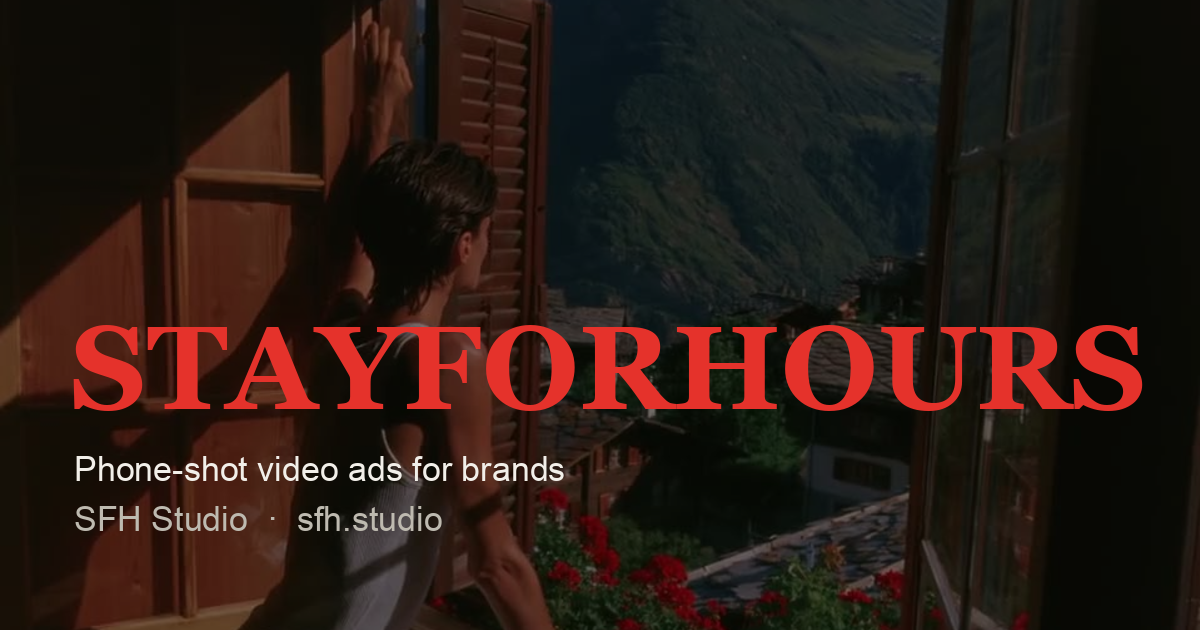
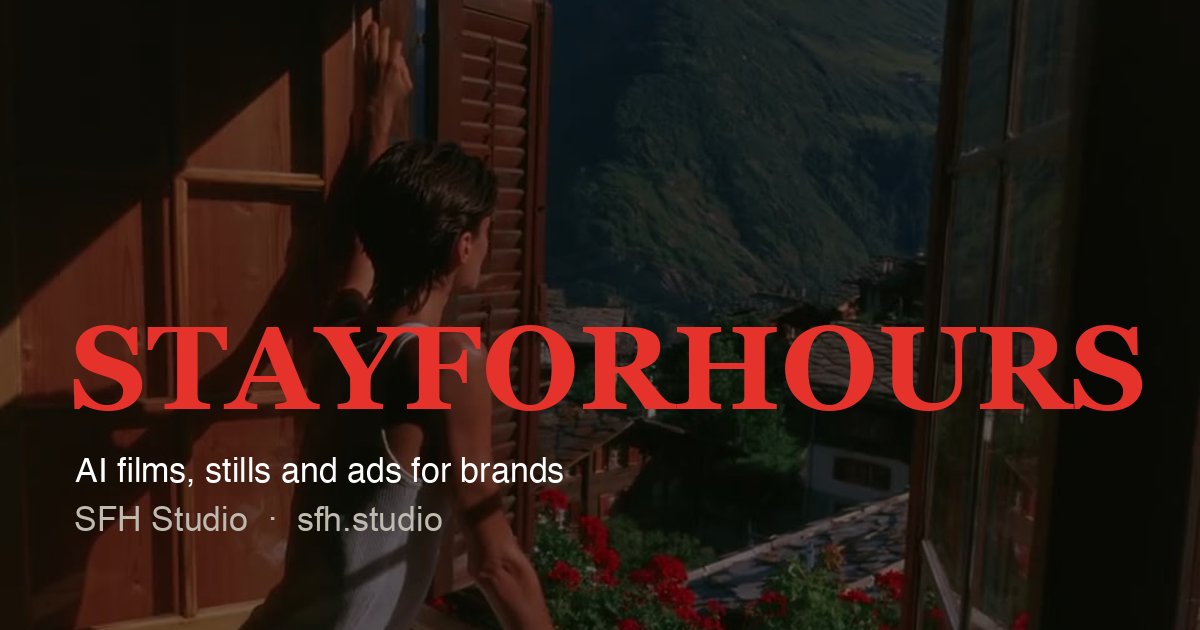
Link preview: 'AI films, stills and ads for brands'; cache-bust og image
Claude-Session: https://claude.ai/code/session_01Qh2s3i4LMB2ndHP6kgwMv4

Changed region(s): [[0.0617, 0.7238, 0.4625, 0.7841]]

diff --git a/index.html b/index.html
@@ -7,8 +7,8 @@
 <meta name="description" content="Visual storytelling for brands: films, stills and ads from SFH Studio.">
 <link rel="icon" href="favicon.svg" type="image/svg+xml">
 <meta property="og:type" content="website"><meta property="og:site_name" content="SFH Studio">
-<meta property="og:title" content="SFH Studio"><meta property="og:description" content="Phone-shot video ads, films and stills for brands from SFH Studio.">
-<meta property="og:url" content="https://sfh.studio/"><meta property="og:image" content="https://sfh.studio/og.png">
+<meta property="og:title" content="SFH Studio"><meta property="og:description" content="AI films, stills and ads for brands from SFH Studio.">
+<meta property="og:url" content="https://sfh.studio/"><meta property="og:image" content="https://sfh.studio/og.png?v=2">
 <meta name="twitter:card" content="summary_large_image">
 <link rel="stylesheet" href="style.css">
 <script>document.documentElement.classList.add("js")</script>

diff --git a/community.html b/community.html
@@ -8,7 +8,7 @@
 <link rel="icon" href="favicon.svg" type="image/svg+xml">
 <meta property="og:type" content="website"><meta property="og:site_name" content="SFH Studio">
 <meta property="og:title" content="Community · SFH Studio"><meta property="og:description" content="Join the SFH Studio community and earn commission when you refer brands and creators.">
-<meta property="og:url" content="https://sfh.studio/community.html"><meta property="og:image" content="https://sfh.studio/og.png">
+<meta property="og:url" content="https://sfh.studio/community.html"><meta property="og:image" content="https://sfh.studio/og.png?v=2">
 <meta name="twitter:card" content="summary_large_image">
 <link rel="stylesheet" href="style.css">
 <script>document.documentElement.classList.add("js")</script>

diff --git a/ads.html b/ads.html
@@ -8,7 +8,7 @@
 <link rel="icon" href="favicon.svg" type="image/svg+xml">
 <meta property="og:type" content="website"><meta property="og:site_name" content="SFH Studio">
 <meta property="og:title" content="Ads · SFH Studio"><meta property="og:description" content="AI video ad packages, daily-volume retainers, creative direction and DIY recipe packs from SFH Studio.">
-<meta property="og:url" content="https://sfh.studio/ads.html"><meta property="og:image" content="https://sfh.studio/og.png">
+<meta property="og:url" content="https://sfh.studio/ads.html"><meta property="og:image" content="https://sfh.studio/og.png?v=2">
 <meta name="twitter:card" content="summary_large_image">
 <link rel="stylesheet" href="style.css">
 <script>document.documentElement.classList.add("js")</script>

diff --git a/fashion.html b/fashion.html
@@ -8,7 +8,7 @@
 <link rel="icon" href="favicon.svg" type="image/svg+xml">
 <meta property="og:type" content="website"><meta property="og:site_name" content="SFH Studio">
 <meta property="og:title" content="Fashion · SFH Studio"><meta property="og:description" content="AI lookbooks, campaign films and on-model ads for fashion brands.">
-<meta property="og:url" content="https://sfh.studio/fashion.html"><meta property="og:image" content="https://sfh.studio/og.png">
+<meta property="og:url" content="https://sfh.studio/fashion.html"><meta property="og:image" content="https://sfh.studio/og.png?v=2">
 <meta name="twitter:card" content="summary_large_image">
 <link rel="stylesheet" href="style.css">
 <script>document.documentElement.classList.add("js")</script>

diff --git a/videos.html b/videos.html
@@ -8,7 +8,7 @@
 <link rel="icon" href="favicon.svg" type="image/svg+xml">
 <meta property="og:type" content="website"><meta property="og:site_name" content="SFH Studio">
 <meta property="og:title" content="Selected Films · SFH Studio"><meta property="og:description" content="A selection of finished films from SFH Studio.">
-<meta property="og:url" content="https://sfh.studio/videos.html"><meta property="og:image" content="https://sfh.studio/og.png">
+<meta property="og:url" content="https://sfh.studio/videos.html"><meta property="og:image" content="https://sfh.studio/og.png?v=2">
 <meta name="twitter:card" content="summary_large_image">
 <link rel="stylesheet" href="style.css">
 <script>document.documentElement.classList.add("js")</script>
